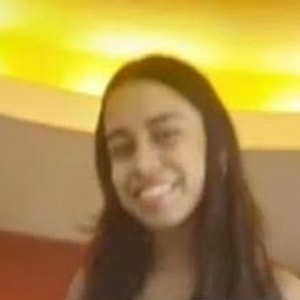
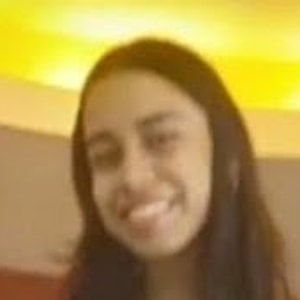
Agranda fotos de Fernanda y Jimena y agrega Instagram

diff --git a/src/config.ts b/src/config.ts
@@ -233,7 +233,7 @@ export type Categoria = (typeof categorias)[number];
 // ----------------------------------------------------------------------------
 
 export const redes = {
-  instagram: "",
+  instagram: "https://www.instagram.com/elsalvadormundelegation/",
   facebook: "",
   email: "",
 };
